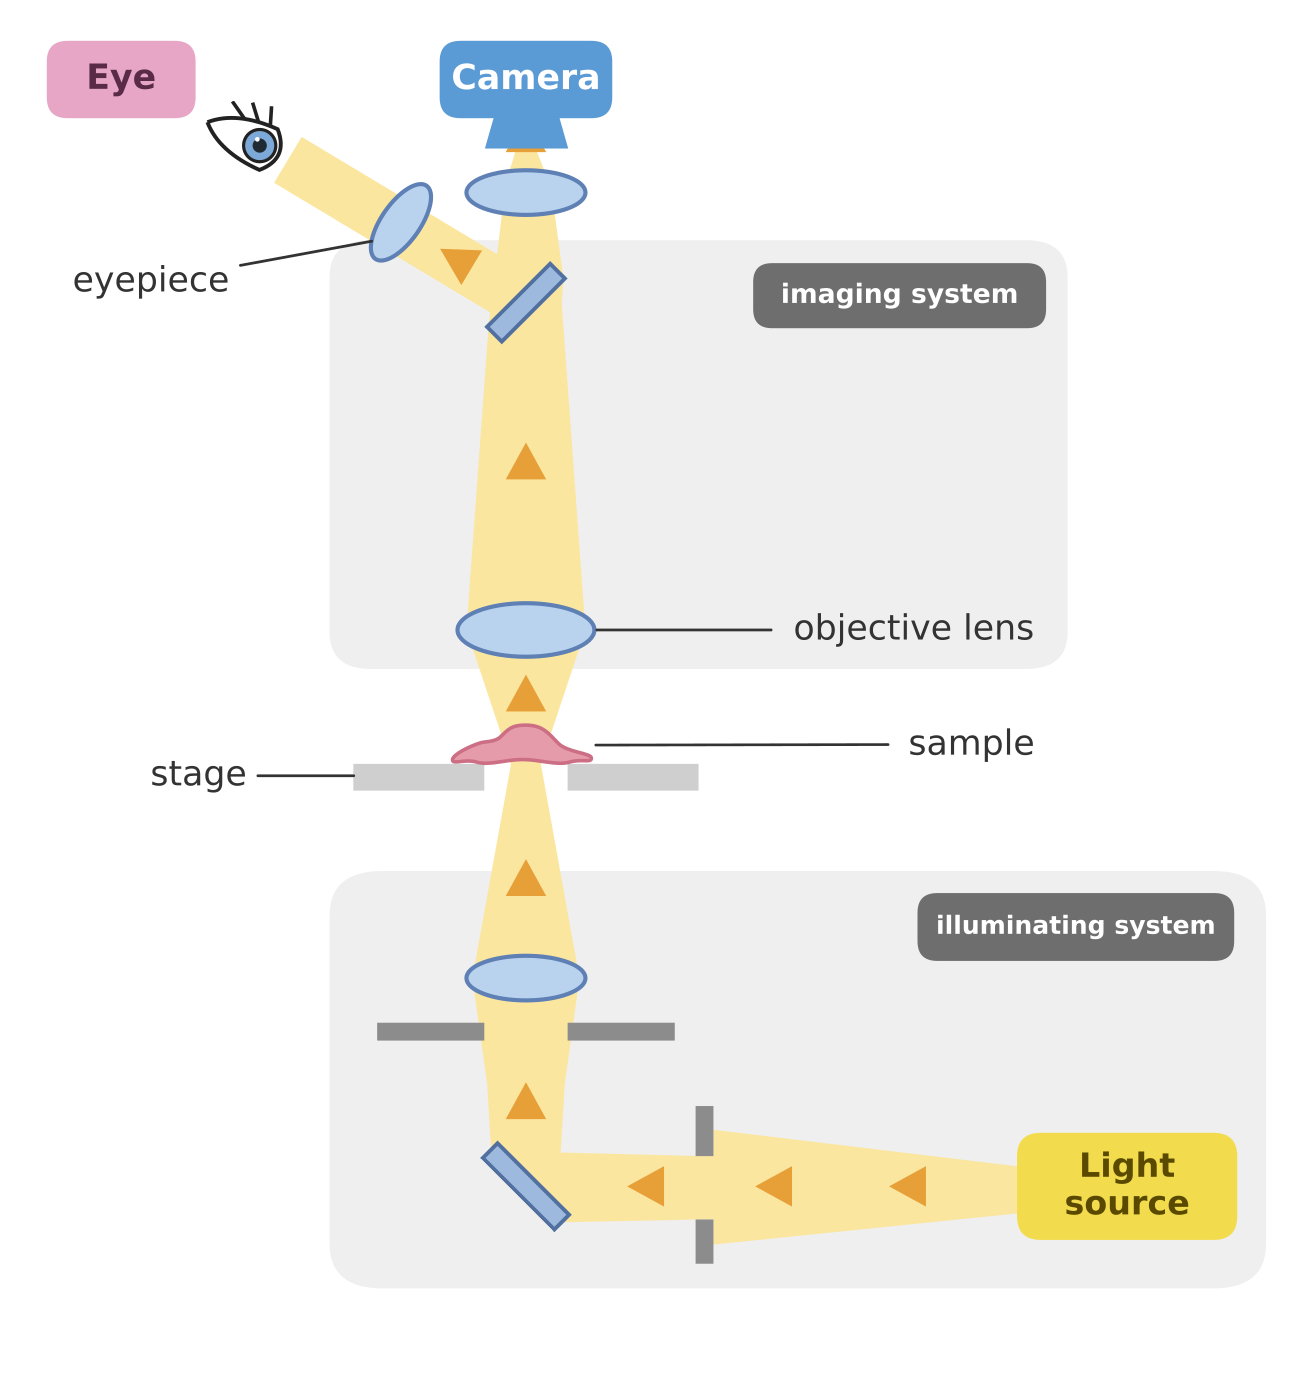
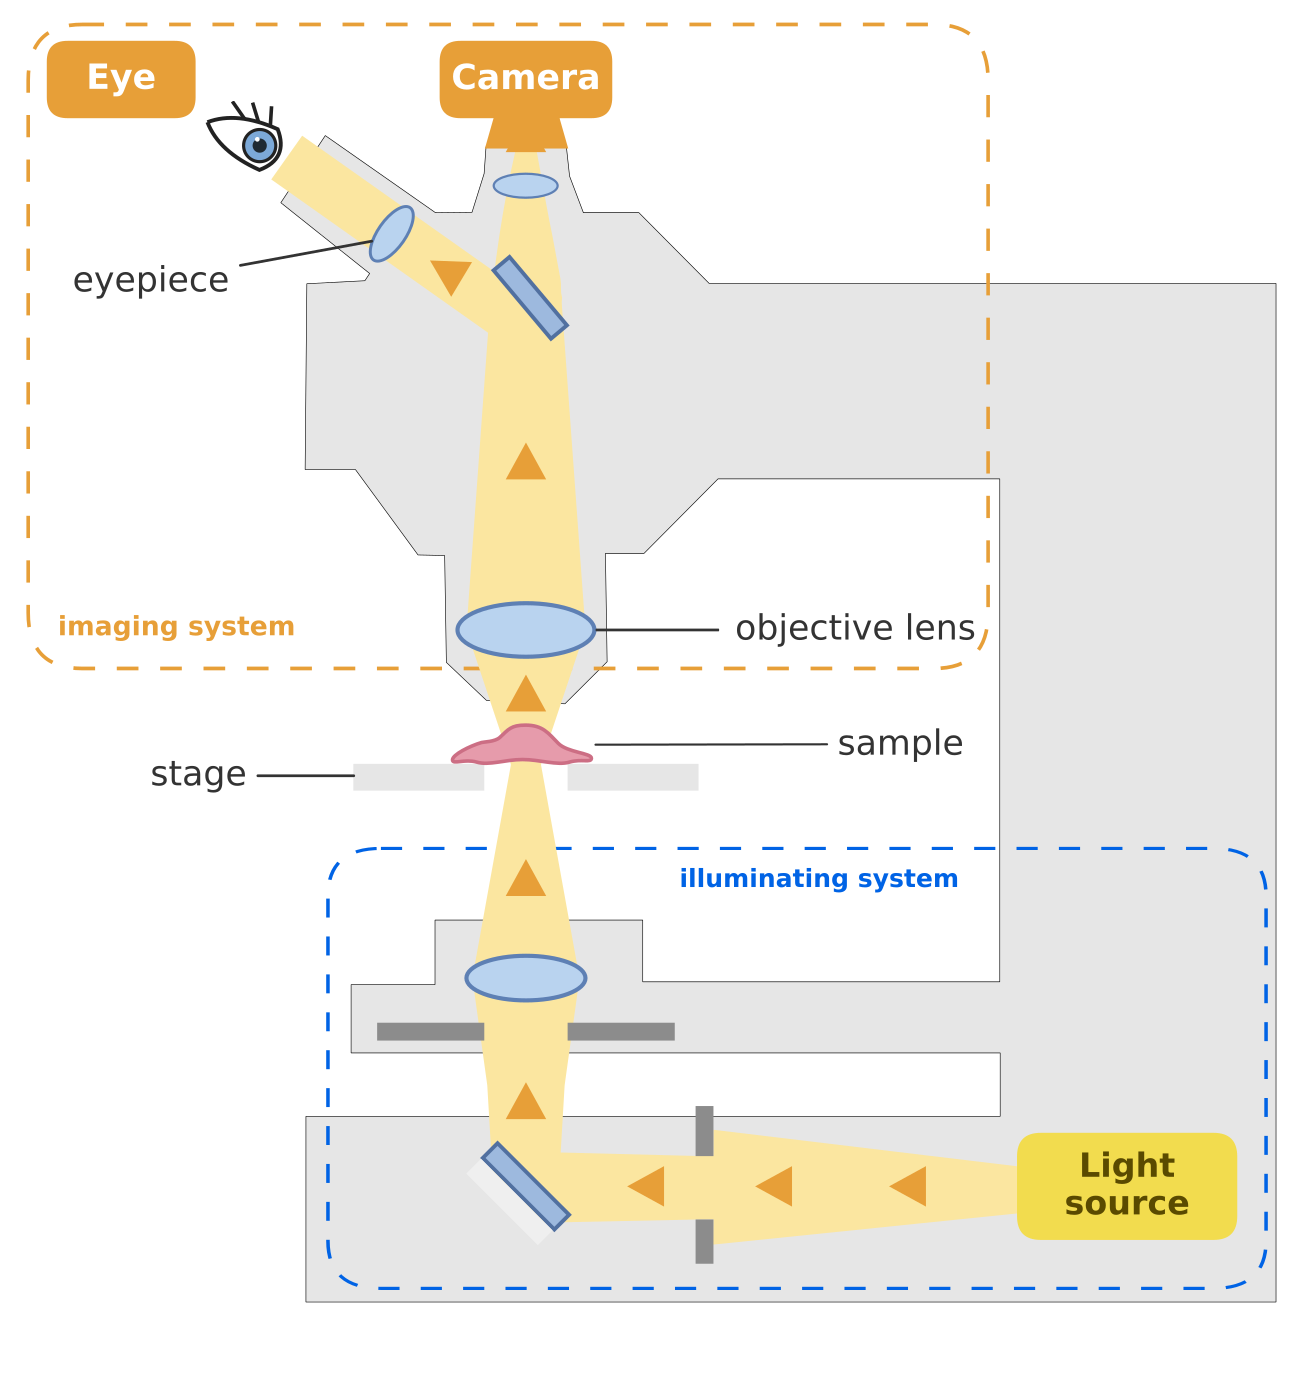
update

diff --git a/book/content/chap3.md b/book/content/chap3.md
@@ -14,7 +14,7 @@ width: 80%
 name: widefield_overview
 align: center
 ---
-Overview of a transmitted-light widefield microscope showing the illumination path (left) and the imaging path (right). The interplay between these two paths determines the quality and contrast of the final image.
+Overview of a transmitted-light widefield microscope showing the illumination path and the imaging path.
 ```
 
 At the end of this chapter you should be able to: